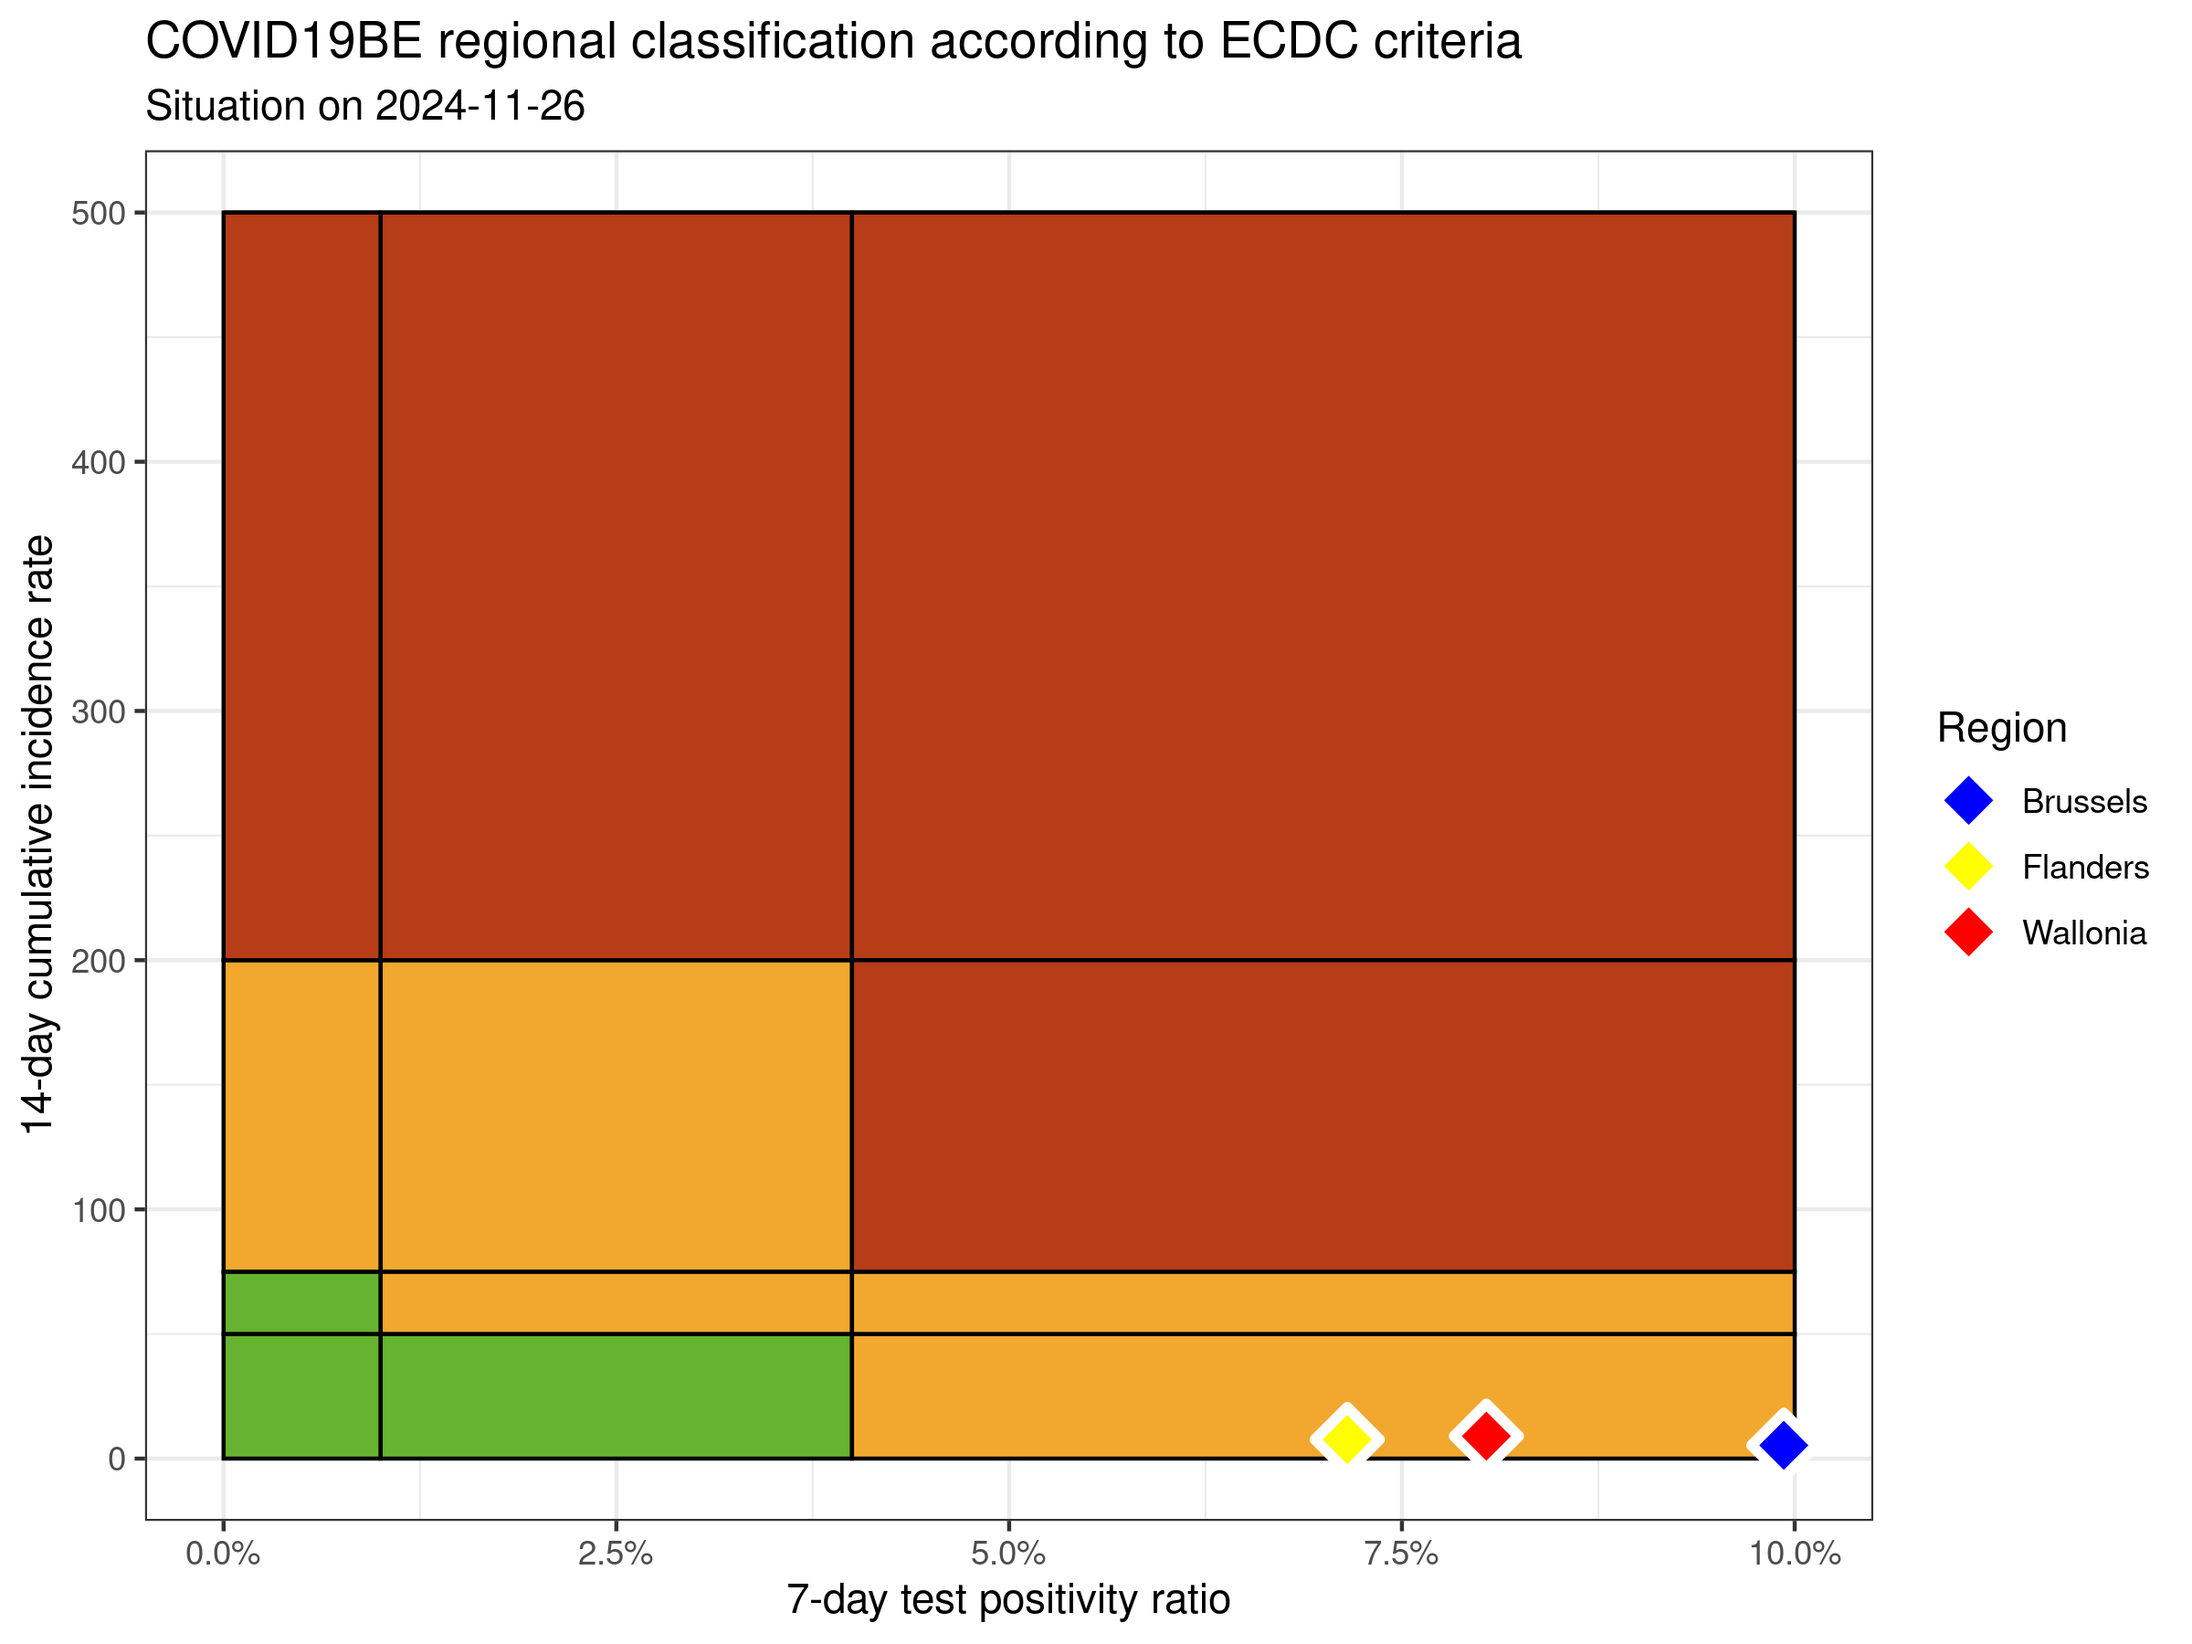
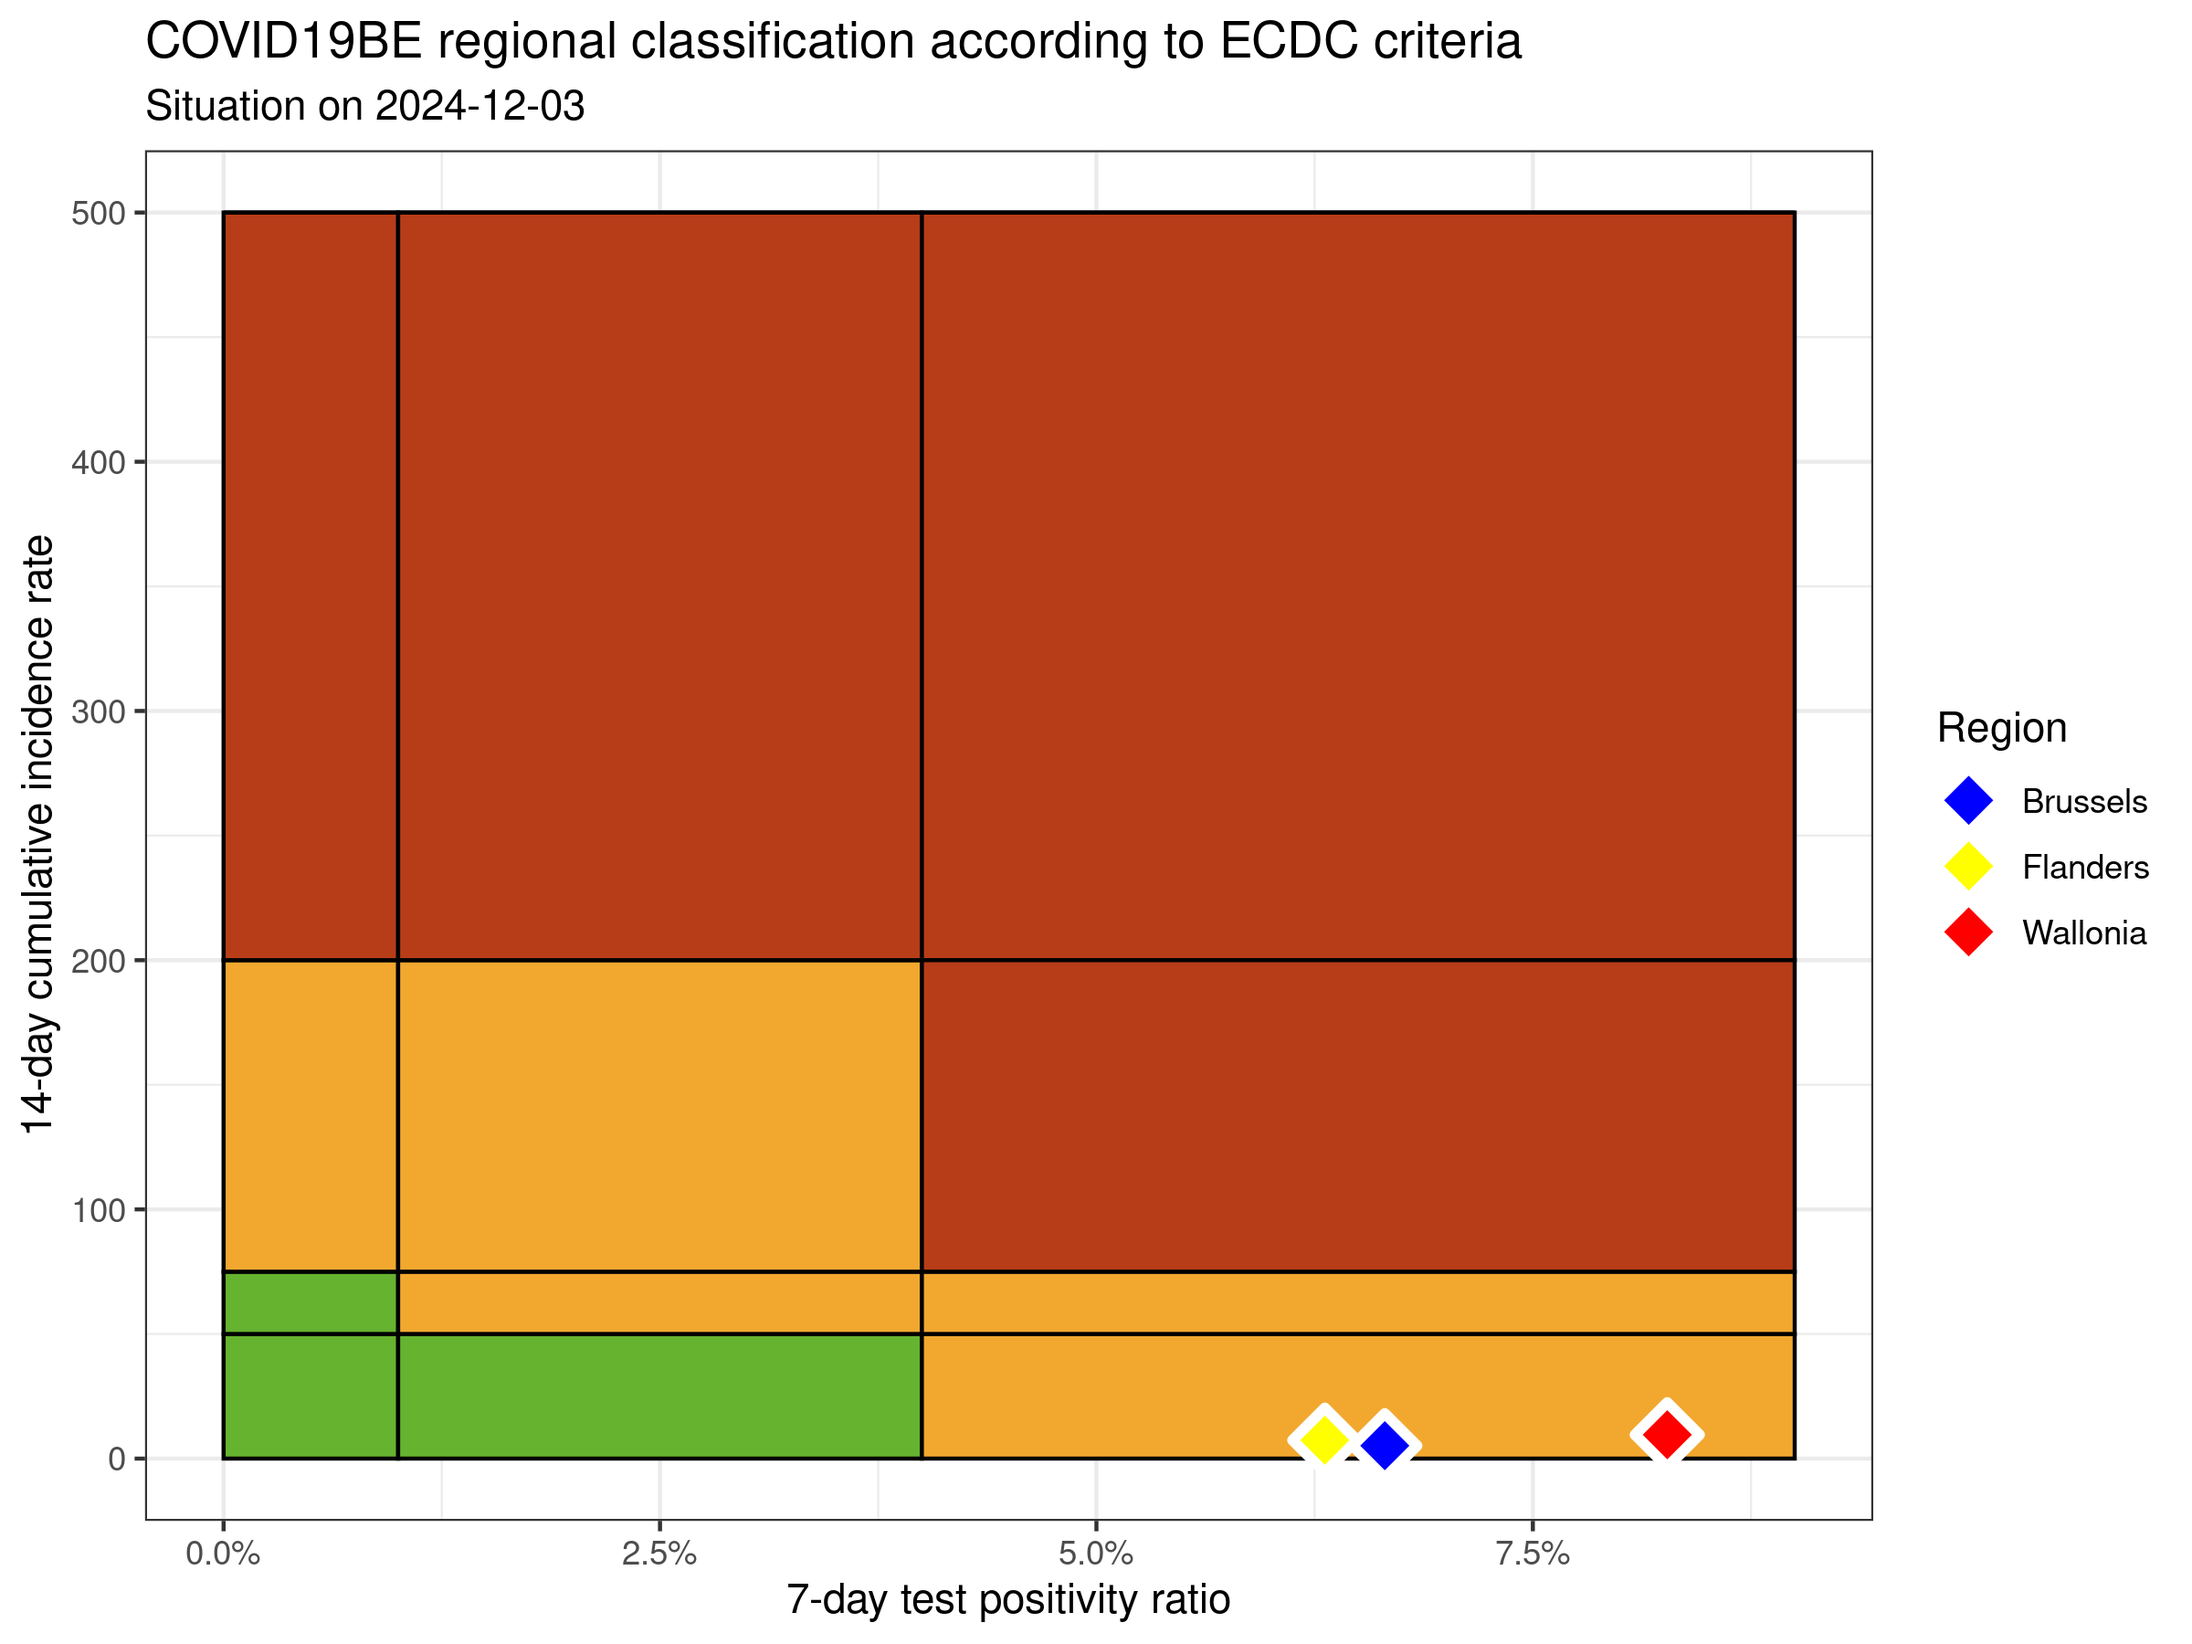
update situation

diff --git a/ecdc-trend/README.md b/ecdc-trend/README.md
@@ -11,9 +11,9 @@
 
 |          | INC14 | INC7 | TST7 | TST\_POS7 | REGION   |     POP | INC14\_RT |       PR7 |          GR |
 | :------- | ----: | ---: | ---: | --------: | :------- | ------: | --------: | --------: | ----------: |
-| Brussels |    65 |   39 |  433 |        43 | Brussels | 1219970 |  5.328000 | 0.0993072 |   0.5000000 |
-| Flanders |   508 |  246 | 4670 |       334 | Flanders | 6653062 |  7.635582 | 0.0715203 | \-0.0610687 |
-| Wallonia |   328 |  172 | 2451 |       197 | Wallonia | 3648206 |  8.990720 | 0.0803754 |   0.1025641 |
+| Brussels |    63 |   23 |  451 |        30 | Brussels | 1219970 |  5.164061 | 0.0665188 | \-0.4250000 |
+| Flanders |   491 |  245 | 4819 |       304 | Flanders | 6653062 |  7.380060 | 0.0630836 | \-0.0040650 |
+| Wallonia |   349 |  177 | 2503 |       207 | Wallonia | 3648206 |  9.566346 | 0.0827008 |   0.0290698 |
 
 ### Read more
 
